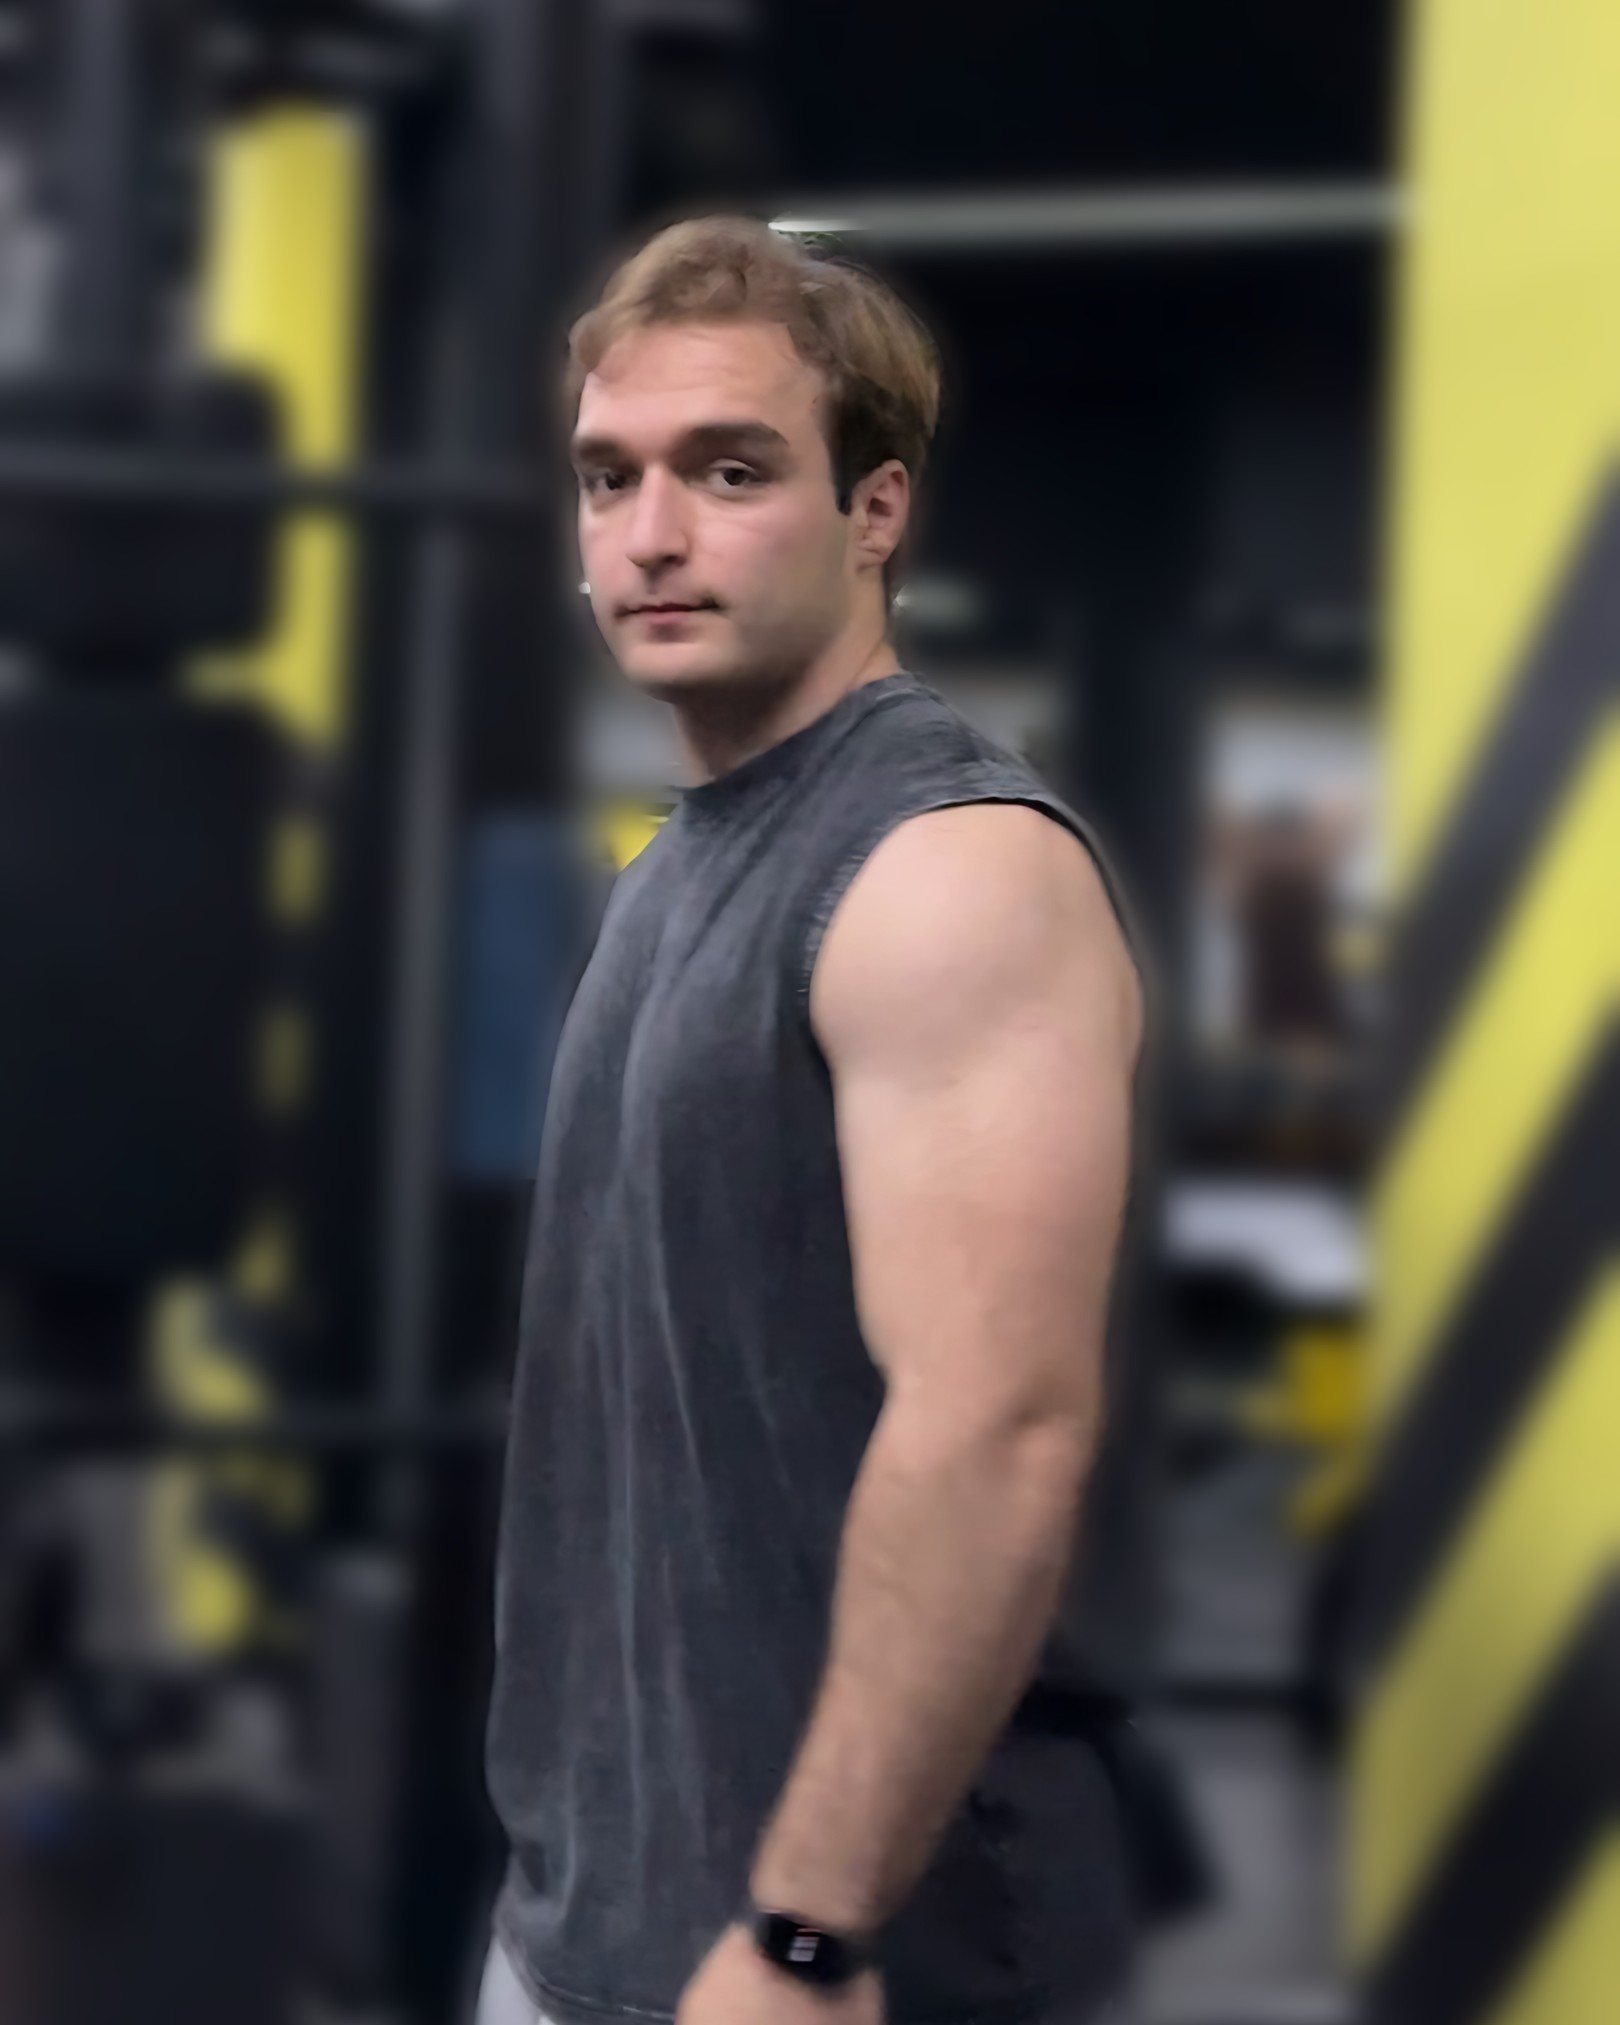
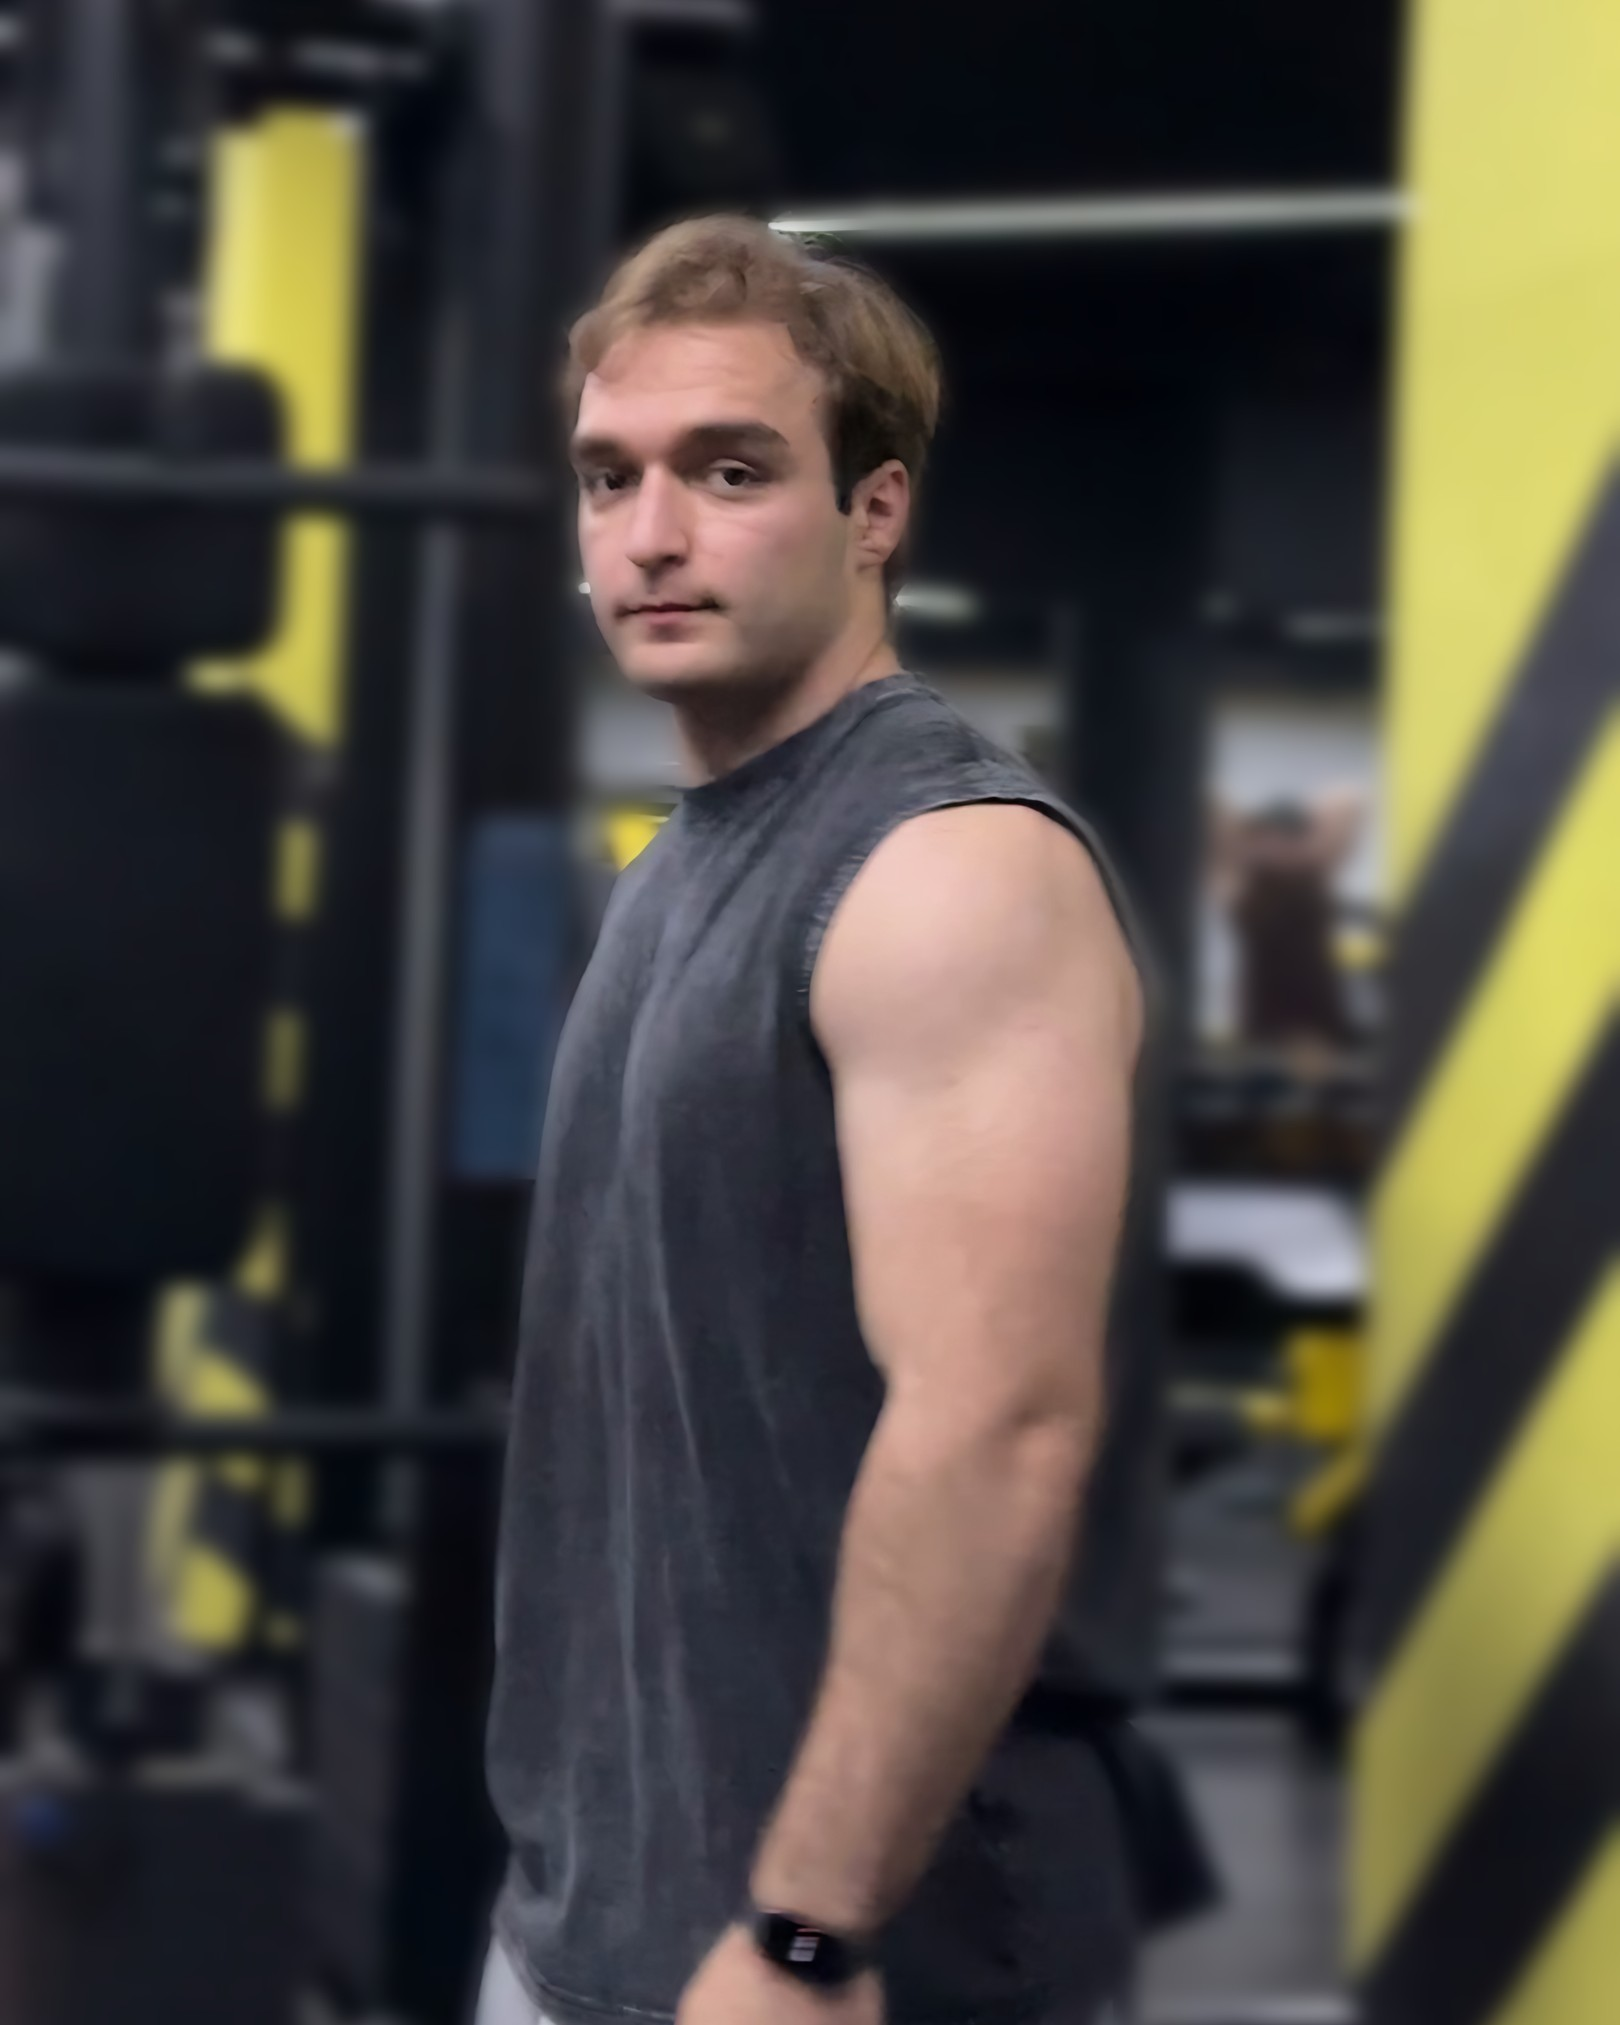
c8: модель Микаела на слайде 6 (прямая мышца бедра), активные с детства, мягче маска фона
Claude-Session: https://claude.ai/code/session_014b6iEBjPGyacsH4fnBbVwQ

diff --git a/content/carousels/build_c8.py b/content/carousels/build_c8.py
@@ -14,11 +14,11 @@ SEL = f'{SP}/car/sel8'
 POSTURE = f'{SP}/posture'  # gfx.py и pelvis.py со шрифтами (копия tools/posture_reel)
 
 
-def portrait(src, out, ratio, top, blur=22):
+def portrait(src, out, ratio, top, blur=14):
     """Фон размыт по маске человека (MediaPipe), чтобы убрать людей на заднем плане."""
     sys.path.insert(0, f'{DIR}/img'); import glow
     im = Image.open(src).convert('RGB'); mask, _ = glow.pose(im)
-    m = Image.fromarray((mask.clip(0, 1) * 255).astype('uint8')).resize(im.size, Image.BILINEAR).filter(ImageFilter.GaussianBlur(6))
+    m = Image.fromarray((mask.clip(0, 1) * 255).astype('uint8')).resize(im.size, Image.BILINEAR).filter(ImageFilter.GaussianBlur(14))
     im = Image.composite(im, im.filter(ImageFilter.GaussianBlur(blur)), m)
     W, H = im.size; ch = int(W / ratio); t = max(0, min(int(H * top), H - ch))
     im.crop((0, t, W, t + ch)).resize((1620, int(1620 / ratio)), Image.LANCZOS).save(out, quality=90)
@@ -110,14 +110,14 @@ def slides():
     fc = [line(*pub, pub[0] - 25, pub[1] - 380, RED, 12), arrow(pub[0] - 12, pub[1] - 170, pub[0] - 20, pub[1] - 300, RED, 9, 30),
           line(*isch, 742, 768, RED, 12), arrow(isch[0] + 20, isch[1] + 4, isch[0] + 75, isch[1] + 28, RED, 9, 28),
           line(psis6[0] + 10, psis6[1] + 40, 705, 585, RED, 12),
-          f'<path d="M600 150 Q450 420 640 680" fill="none" stroke="{BLUE}" stroke-width="10" stroke-dasharray="18 12" stroke-linecap="round" {b.SH}/>',
+          line(*aiis, aiis[0] + 17, 760, BLUE, 10, '18 12'),
           line(psis6[0] - 15, psis6[1] - 40, 712, 40, BLUE, 10, '18 12'),
           pill(pub[0] - 50, pub[1] - 250, 'прямая мышца живота', RED, TXT, 30, 'end'),
           pill(1060, 600, 'двуглавая мышца бедра', RED, TXT, 30, 'end'), line(830, 650, 700, 748, RED, 4),
           pill(1060, 470, 'большая ягодичная', RED, TXT, 30, 'end'), line(800, 518, 745, 545, RED, 4),
-          pill(430, 700, 'подвздошно-поясничная', BLUE, BG, 30, 'end'), line(430, 724, 628, 676, BLUE, 4),
+          pill(400, 640, 'прямая мышца бедра', BLUE, BG, 30, 'end'), line(400, 664, aiis[0] + 10, 664, BLUE, 4),
           pill(1050, 200, 'выпрямляющая позвоночник', BLUE, BG, 30, 'end'),
-          pill(40, 165, 'укорочены', RED, TXT, 30), pill(40, 230, 'ослаблены', BLUE, BG, 30), pill(40, 295, 'клиническая модель', BG, SOFT, 30)]
+          pill(40, 165, 'укорочены', RED, TXT, 30), pill(40, 230, 'ослаблены', BLUE, BG, 30), pill(40, 295, 'по моей практике', BG, SOFT, 30)]
     force = svg(W, 891, topfade(W, 220), *fc)
     # 7. протокол Микаела (из базы, его слова)
     pr = [b.panel(60, 150, 960, 720), pill(100, 180, 'укрепляю', A, BG, 32), pill(560, 180, 'растягиваю', SOFT, BG, 32)]
@@ -150,7 +150,7 @@ def slides():
         {'layout': 'photo-top', 'photoHeight': 76, 'photo': 'src/c8_wall.jpg', 'focus': '50% 50%',
          'title': 'Самотест у стены: лордоз', 'body': 'Больше ладони под поясницей: лордоз усилен. Ладонь не проходит: лордоз сглажен.', 'marks': [wall]},
         {'layout': 'photo-top', 'photoHeight': 66, 'photo': 'src/c8_force.jpg', 'focus': '50% 50%',
-         'title': 'Задний наклон: у кого и почему', 'body': 'По моей практике чаще у активных: бег, прыжки, игровые виды, спорт с детства. Клиническая модель: укороченные мышцы тянут лобок вверх, а седалищный бугор вниз.', 'marks': [force]},
+         'title': 'Задний наклон: у кого и почему', 'body': 'По моей практике чаще у спортсменов (бег, прыжки, игровые виды) и у активных с детства. Укороченные мышцы тянут лобок вверх, а седалищный бугор вниз.', 'marks': [force]},
         {'layout': 'big-number', 'photo': 'src/bg_grid.jpg', 'focus': '50% 50%',
          'title': 'Мой протокол при заднем наклоне', 'body': 'Укрепляю ослабленные, растягиваю укороченные.', 'marks': [proto]},
         {'layout': 'big-number', 'photo': 'src/bg_grid.jpg', 'focus': '50% 50%',
